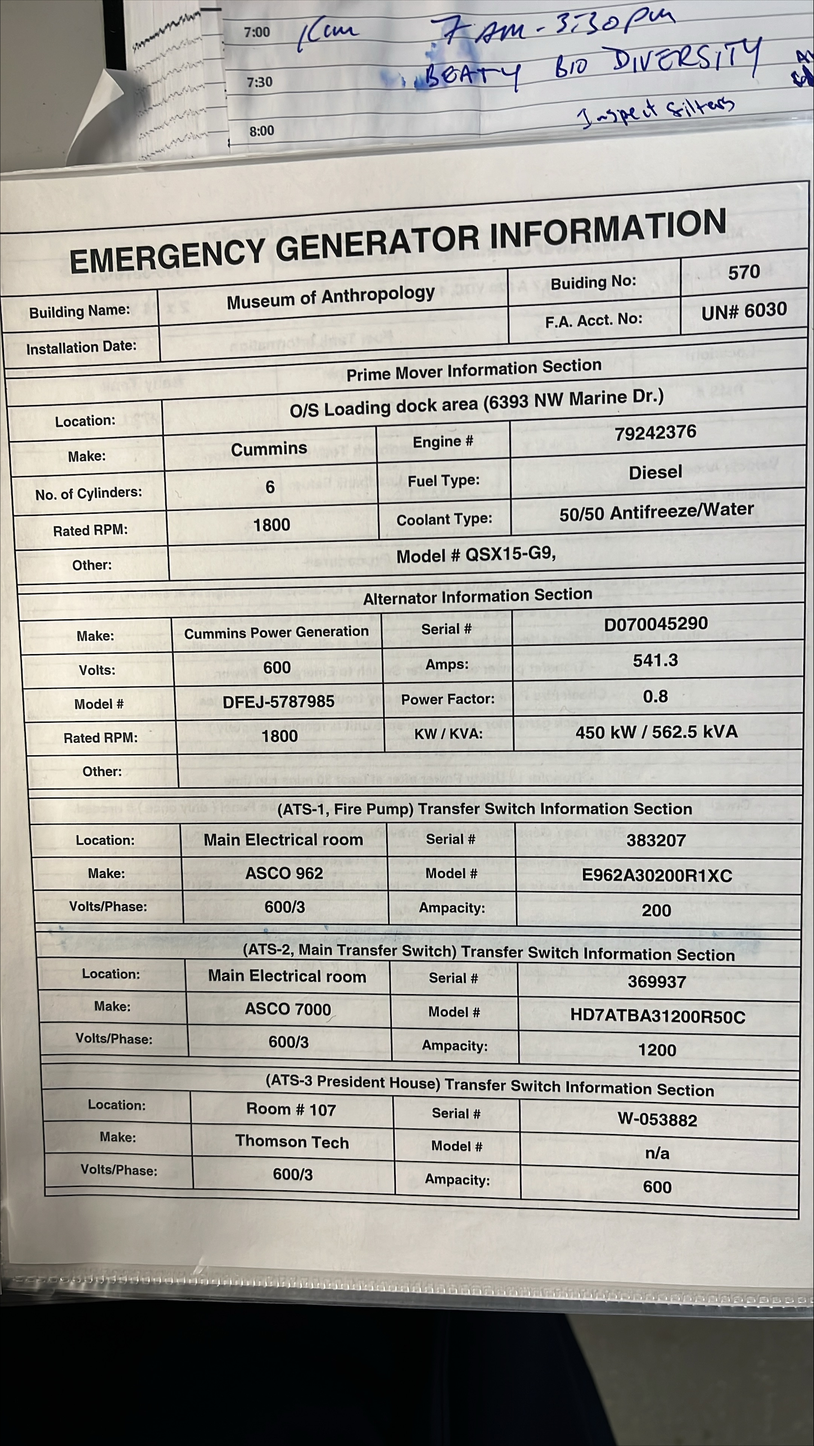
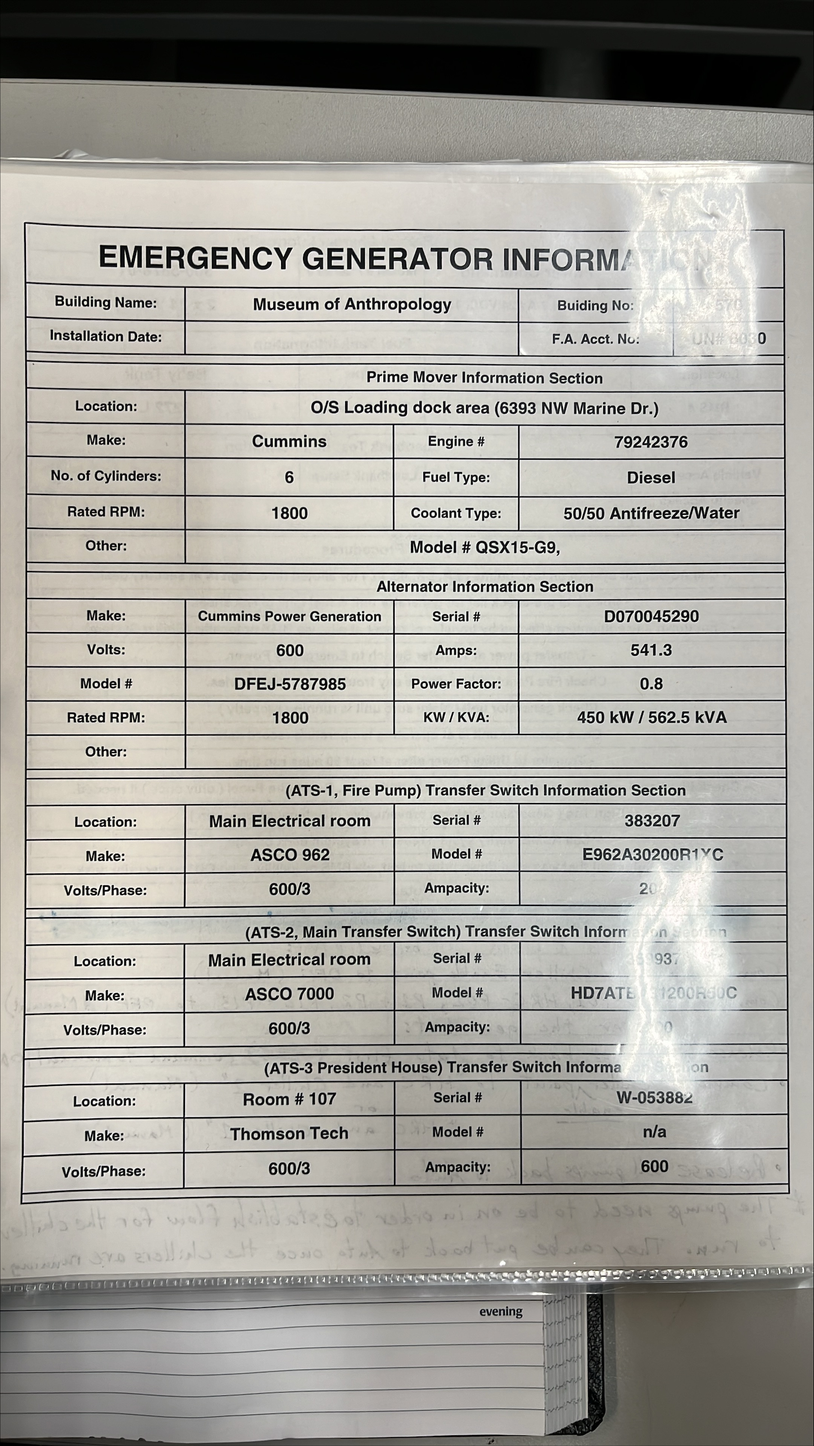
add revised egi-sheets

diff --git a/src/pages/leonard-s-klinck/info.ts b/src/pages/leonard-s-klinck/info.ts
@@ -152,7 +152,7 @@ const emergency_generator_info: ImagesProps = {
 const leonard_s_klinck_props: LeonardSKlinckProps = {
   ahu1VFDLocation: ahu1_vfd_location,
   buildingInfo: building_info,
-  emergencyGeneratorInfo: emergency_generator_info,
+  emergencyGeneratorInformation: emergency_generator_info,
   notes: notes,
   routeToGenATSAndFP: route_to_gen_ats_and_fp,
 };
